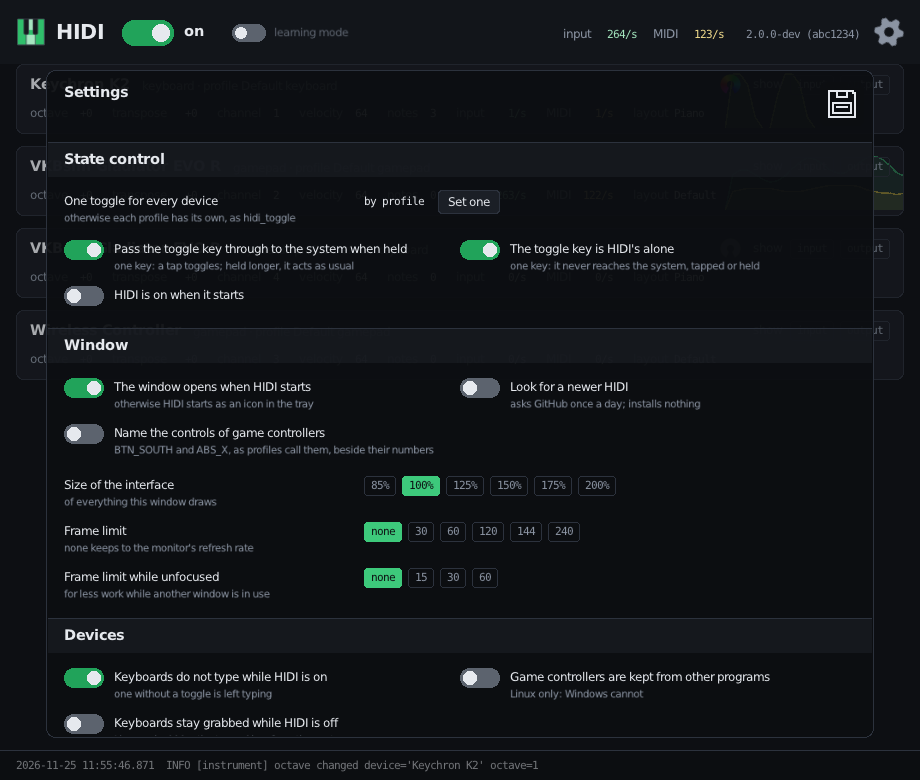
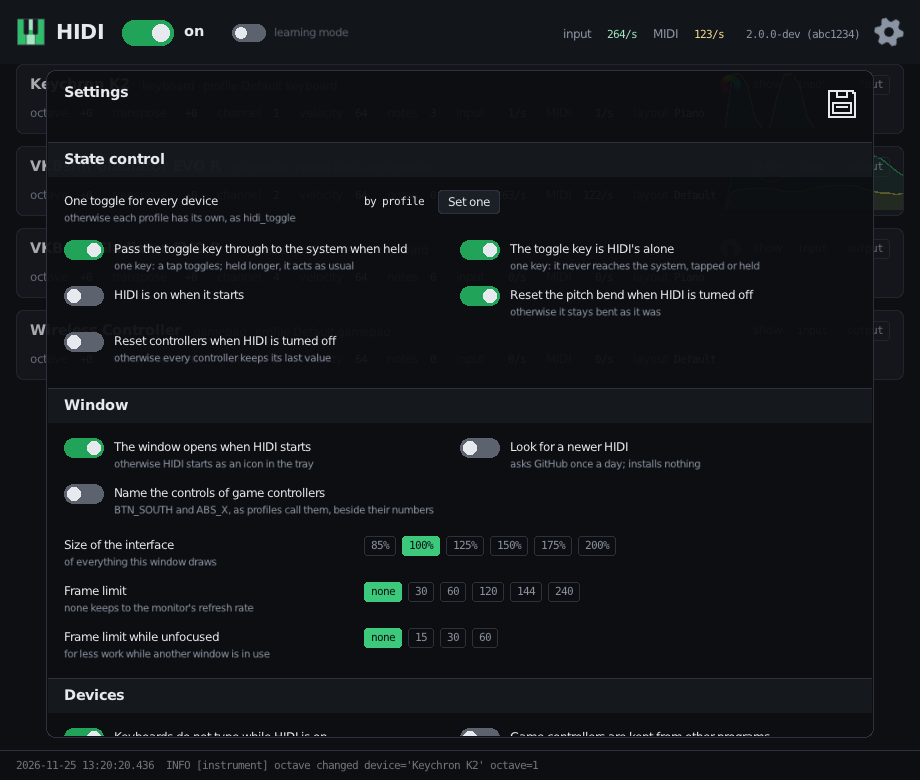
Documentation and pictures for the eleventh round
- README: what turning HIDI off does to the pitch bend and the
  controllers; the factory game-controller profile as the rule and a
  pitch bend; the profile page opened for a device, "for <device>",
  "(generated)", the device tinted in the list; the dead zone as the
  profile's with "own dead zone" for an axis; the hysteresis and the two
  reset switches on the settings sheet.
- docs/configuration.md: input.hysteresis, output.reset_pitch_bend and
  output.reset_controllers; `deadzone` in [defaults] and what a
  binding's own means; what turning off does, apart from what ends an
  instrument.
- docs/roadmap.md: the eleventh round as a table, with the answer about
  the name of the rp2350 gamepad.

The pictures of the window are taken anew.

Claude-Session: https://claude.ai/code/session_01BSpi87DutHCzCjSX2Ru5Rd

diff --git a/docs/configuration.md b/docs/configuration.md
@@ -89,6 +89,7 @@ toggle_tap = true
 always_grab = false
 toggle_exclusive = true
 learn_threshold = 50
+hysteresis = 2
 
 [devices]
 mode = "blacklist"
@@ -96,6 +97,8 @@ list = []
 
 [output]
 connect = []
+reset_pitch_bend = true
+reset_controllers = false
 
 [lights]
 openrgb = false
@@ -136,7 +139,10 @@ control_names = false
 | `input.learn_threshold` | How far an axis has to move to get through in learning mode, in hundredths of its range, 1 to 100. See the `learn` command. | |
 | `devices.mode` | How `devices.list` is read: with `"blacklist"` every keyboard and game controller plays except the listed ones, with `"whitelist"` only the listed ones do. | |
 | `devices.list` | Names of devices, as HIDI shows them. Two devices of one name are treated alike. | |
+| `input.hysteresis` | The hysteresis of an axis that acts as a button, in hundredths of its travel, 0 to 100. An axis that plays a note or runs a command has to pass its trigger point by half of this to count as pressed, and to come back behind the point by half of this to count as let go, so that an axis resting near the point does not trigger over and over. Neither goes past the ends of the travel: with the point at 50 % and a hysteresis of 100, the axis is pressed at its far end and let go at rest. 0 turns it off. | |
 | `output.connect` | Existing MIDI ports every instrument also sends to. | `--connect` |
+| `output.reset_pitch_bend` | Turning HIDI off puts the pitch bend back to no bend. `true` as HIDI comes. | |
+| `output.reset_controllers` | Turning HIDI off puts every controller back to its rest. `false` as HIDI comes: a controller stays as it was last sent, and is not sent again on turning on while its axis is where it was. | |
 | `lights.openrgb` | Light the keys of keyboards through an OpenRGB server. | `--openrgb` |
 | `lights.address` | Where that server listens, as `"host:port"`. Empty, which is the default, means `127.0.0.1:6742`. | `--openrgb ADDRESS` |
 | `lights.colours` | The colours of the keys, each as `"#rrggbb"`. See below. | |
@@ -399,6 +405,7 @@ These are also the values the reset combinations return to.
 | `axis_on_change` | `"keep"` | What happens to a controller when a change of channel or layout takes its axis away. See below. |
 | `axis_rate` | `120` | How many positions a second an axis passes on, from 1 to 1000; `0` passes every one. |
 | `axis_threshold` | `0.01` | How far a resting axis has to move before it counts as moved, as a fraction of its travel, from 0 to 0.5; `0` passes everything. See below. |
+| `deadzone` | `0` | The dead zone of every axis in the profile that names none of its own, bound by a line or by the `[generate]` rule: the fraction of travel next to the rest position that is ignored, from 0 to below 1. |
 
 Axes when the channel or layout changes: pitch bend, and a controller driven
 by an axis marked `centered`, always return to rest, so that nothing stays
@@ -470,10 +477,9 @@ A control that should stay silent says so:
 BTN_TL = "nothing"
 ```
 
-The factory profile for game controllers is little more than this rule: it
-names the commands on select, start and the middle button, and pitch bend
-on the stick. The hats are left to the rule, their directions buttons like
-the others.
+The factory profile for game controllers is this rule and one line, the
+pitch bend on the stick. Every button and every direction of a hat plays a
+note, and every other axis sends a controller.
 
 ## Layouts and global bindings
 
@@ -573,8 +579,8 @@ and any of these options:
 | `channel_offset` | Added to the current channel, 0 to 15, wrapping around after channel 16. It lets one layout play several channels that move together with the channel commands. |
 | `centered` | Set to `true` for an axis that rests in the middle of its travel, such as a stick. The dead zone is then placed around the middle, pitch bend treats the middle as no bend and bends both ways from there, and a controller counts 64 as its rest, to which it returns when a change of channel or layout takes the axis away. Without a dead zone a controller sends the same values either way. Not needed with the `+` and `-` forms. |
 | `invert` | Set to `true` to reverse the direction of the control. |
-| `deadzone` | The fraction of travel next to the rest position to ignore, from 0 up to 1. |
-| `threshold` | For a note, a program change or a command on an axis: how far the axis has to move for it to trigger, from above 0 to below 1; half of the way unless set. Of the half, for the `+` and `-` forms, and of what is left after the dead zone. |
+| `deadzone` | The fraction of travel next to the rest position to ignore, from 0 up to 1, for this binding alone. Left out, the axis has the dead zone of the profile (`deadzone` in `[defaults]`). |
+| `threshold` | For a note, a program change or a command on an axis: how far the axis has to move for it to trigger, from above 0 to below 1; half of the way unless set. Of the half, for the `+` and `-` forms, and of what is left after the dead zone. The hysteresis of the settings is laid around this point. |
 
 Notes and commands work on axes too: they trigger when the axis passes half of
 its travel, or the point `threshold` names:
@@ -647,5 +653,8 @@ with HIDI has the command on F10.
   keys and centered axes return to rest on the old channel, so nothing is left
   bent or modulated. An axis that is not centered, such as a throttle lever,
   keeps the value it had.
-- When an instrument is disabled or its device is unplugged, every note is
-  released and every controller and pitch bend returns to rest.
+- When HIDI is turned off, every note is released and the pitch bend
+  returns to rest; controllers stay as they were last sent. The settings
+  `reset_pitch_bend` and `reset_controllers` say otherwise.
+- When a device is unplugged, its profile changes or HIDI ends, every note
+  is released and every controller and pitch bend returns to rest.

diff --git a/README.md b/README.md
@@ -148,9 +148,9 @@ rows, laid out like a piano.
 A game controller of any kind, a pad, a stick, a throttle or a wheel,
 plays notes on its buttons, from C1 up in the order of their numbers, and
 sends a controller from each axis, from controller 16 up. The stick, or the
-left one of two, bends the pitch; the directions of a hat or a direction pad
-are buttons like the others; select and start change the channel. HIDI has no
-profiles for single products: it asks each controller what it has and gives
+left one of two, bends the pitch, and that is the one thing the profile
+names: every button, the directions of a hat or a direction pad among them,
+plays a note. HIDI has no profiles for single products: it asks each controller what it has and gives
 everything a part by its number, the same every time. What exactly, and
 everything else, is in the [profiles](#settings-and-profiles).
 
@@ -163,7 +163,9 @@ with. To get it back, tap the toggle key:
 **Caps Lock**, pressed and let go within half a second.
 
 Another tap turns HIDI back on. While HIDI is off the instruments are
-silent and their MIDI devices stay in place. Game controllers are not taken
+silent and their MIDI devices stay in place. Turning off ends every note
+and puts the pitch bend back to no bend; controllers stay as they were last
+sent, a volume for one, and both can be set otherwise. Game controllers are not taken
 away, so they keep working in other programs.
 
 Caps Lock is HIDI's alone from then on: it no longer switches capitals,
@@ -258,6 +260,13 @@ greyed out.
   all devices; "Use the profiles'" goes back.
 - "Pass the toggle key through to the system when held": a toggle of one
   key works by a tap, and held longer the key does what it normally does.
+- "Reset the pitch bend when HIDI is turned off", on as HIDI comes, and
+  "Reset controllers when HIDI is turned off", off as HIDI comes: what
+  turning off puts back to rest beside ending the notes.
+- "Hysteresis of axes that act as buttons": how far past its trigger point
+  an axis has to go to count as pressed, and behind it to count as let go,
+  half of the value each way. 2 % as HIDI comes; 100 % means pressed at
+  the far end and let go at rest.
 - "Devices that play" chooses which devices become instruments: with
   "blacklist" every one except those you tick, with "whitelist" only those
   you tick. The list has the devices that are connected and, after them and
@@ -303,6 +312,12 @@ page shows the numbers an instrument starts with, the layouts, and what
 every control does, with what the device is doing at this moment laid over
 it.
 
+Opened from an instrument's card, the page is for that device, and says so
+beside the name of the profile: "for" and the name of the device. It shows
+what that device has and what the profile's rule makes of it, also where
+several controllers play with the same profile. A group of controls is
+marked "(generated)" where the profile names none of them.
+
 A keyboard's profile is drawn as a keyboard, coloured by what the keys do,
 and the keys that are down are marked. Keys the drawing has no place for,
 media keys for one, show up in a row "Other keys" once they have been
@@ -333,10 +348,14 @@ An axis can be anything a button can, and more:
 
 - a controller or the pitch bend, with "rests in the middle" for a stick
   (a dead zone is then around the middle, the pitch bends both ways from
-  there, and a controller counts 64 as its rest), "reversed", and a dead
-  zone;
+  there, and a controller counts 64 as its rest) and "reversed". The dead
+  zone is the profile's, which is among the starting values at the top of
+  the page and 0 unless set; "own dead zone" gives the axis one of its
+  own;
 - a note or a command, triggered when the axis passes a point you set
-  ("triggers at", half of its way unless changed);
+  ("triggers at", half of its way unless changed). How far past the point
+  it has to go, and how far back to let go, is the hysteresis in the
+  settings;
 - two halves bound apart. "Split into two halves" turns a controller into
   two, one for each direction from the middle, so that a stick at rest
   sends 0 on both instead of 64 on one; each half is then chosen by its
@@ -351,9 +370,10 @@ it does nothing.
 
 A change to the profile for game controllers applies to all of them.
 "Customise for specific device", at the top of the page, unfolds the
-devices that play with the profile; a click on one makes a profile of your
-own for that product alone, out of what the page shows, and opens it. The
-device plays with it from then on; the others stay as they were.
+devices that play with the profile, the one the page was opened for tinted
+green; a click on one makes a profile of your own for that product alone,
+out of what the page shows, and opens it. The device plays with it from
+then on; the others stay as they were.
 
 ![Changing a keyboard's profile](docs/images/gui-profile.png)
 

diff --git a/docs/roadmap.md b/docs/roadmap.md
@@ -51,7 +51,7 @@ completes or changes an item.
 | OpenRGB | Supported through a server the user runs. HIDI does not bundle one. |
 | Go version | The current release; 1.27 at the time of writing. |
 
-## Where things stand (25 November 2026)
+## Where things stand (26 November 2026)
 
 `dev` holds everything up to the review of the whole code (pull requests
 50 and 51). One pull request is open on top of it:
@@ -85,6 +85,25 @@ move.
 is moved or resized on Windows. The branch is kept for when the change has
 found its way into raylib, or raylib-go 0.63 is taken up; it does not have
 the sixth round.
+
+### Eleventh round (26 November 2026): what was reported, and what was done
+
+| Reported or asked for | Done |
+|---|---|
+| "Edit profile" shows some basic mapping, and nothing moves on it | The page took the last device it found with the profile, not the one whose card was clicked. It is opened for an instrument now and shows that one. |
+| Show which device is being customised | "for <device>" beside the name of the profile. |
+| Hint the device in "Customise for specific device" | The device the page was opened for is tinted green in the list. |
+| Say that a mapping is generated | "(generated)" and "(partly generated)" on the groups of controls. |
+| No channel down, channel up and panic in the default gamepad profile | Gone. The profile is the rule and the pitch bend on ABS_Y. |
+| Controllers kept over off and on; two settings | `reset_pitch_bend`, on, and `reset_controllers`, off, in `[output]`, as switches in "State control". |
+| Generating is slow, a second after a click | Nothing was generated slowly: HIDI looked at its profile directory once a second and waited for two looks to agree. The window now says when it wrote a profile and HIDI looks at once. The page also stays with its device while the device changes profile. |
+| Dead zone 0 everywhere; one for the profile, overridden per axis | `deadzone` in `[defaults]`, 0 unless set; "own dead zone" on an axis. The factory pitch bend has none. |
+| Hysteresis for axes that act as buttons, 2 % by default | `input.hysteresis`: half of it past the trigger point to press, half behind it to let go, kept within the travel. |
+| The axis bar chooses the first mapping, also for hats and split axes; a chosen mapping marks its bar | Done. |
+| The rp2350 gamepad shows as "gamepad", Windows shows "Extender Ultimate" | Not HIDI's to fix, as far as can be told from here: HIDI shows the name the device gives itself now, which the firmware has as "gamepad" unless set, for the device and for its HID interface alike. The name in Windows' list of game controllers is one Windows keeps in the registry for a vendor and product from when it first saw them. Setting "Device name" in the gamepad's configurator makes both agree. |
+
+Also: an axis a device lists and has said nothing of is shown without a
+bar and with a dash, in place of standing at its lower end.
 
 ### Tenth round (25 November 2026): what was reported, and what was done
 
@@ -340,7 +359,6 @@ To be decided:
   without a word, by a crash for one, until its file changes or HIDI
   starts again. A window that is closed takes it back.
 - Notes under the pointer: the means are there, the texts are not.
-- The window shows an axis that has not reported yet at its lower end.
 - The window does not remember its size and place.
 - Two keyboards with lights are written one after the other, so each
   follows at half the pace it could.
